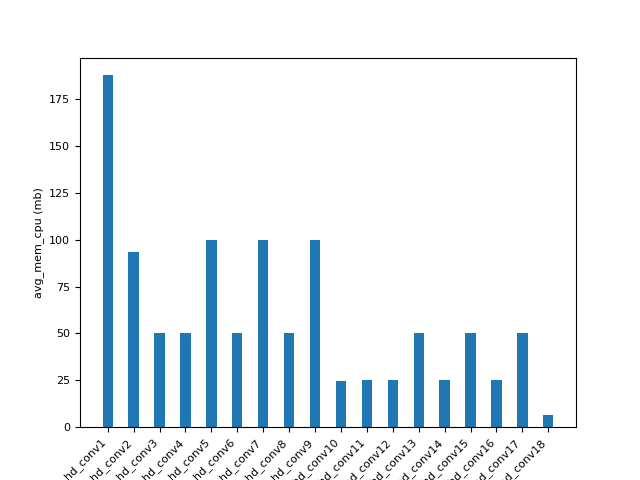
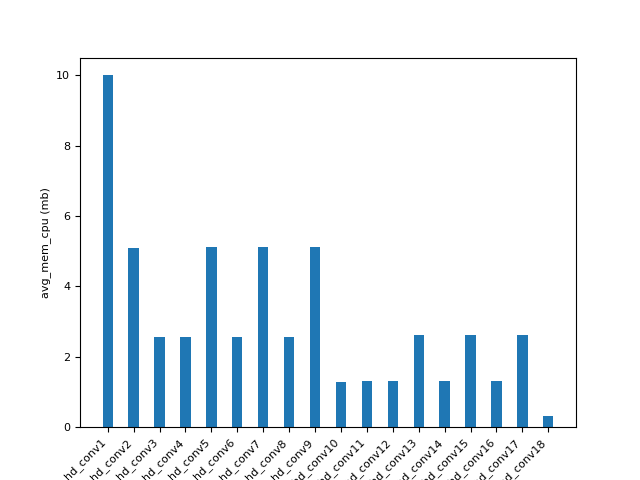
bug fix

diff --git a/models.py b/models.py
@@ -423,7 +423,7 @@ class Yolov4Head(nn.Module):
         # ----------------------------------------------------------------
 
         # ----------------------------------------------------------------
-        prof_wrapper.scale.dependency_check(tensor_name="x2", src="hd_conv2", dest="hd_conv3")
+        prof_wrapper.scale.dependency_check(tensor_name="input1", src="nk_conv20", dest="hd_conv3")
         tmp_input = torch.clone(input1)
         with profile(
                 activities=

diff --git a/test.py b/test.py
@@ -17,9 +17,9 @@ model = Yolov4()
 model.to(device)
 print("YOLOv4 is Ready")
 
-n = 20
+n = 1
 print(f"input size: {n}")
-input = torch.randn(n, 3, 244, 244).to(device)
+input = torch.randn(n, 3, 256, 256).to(device)
 model.forward(input, prof_wrapper, usingcuda)
 
 prof_wrapper.report(sample=False)
